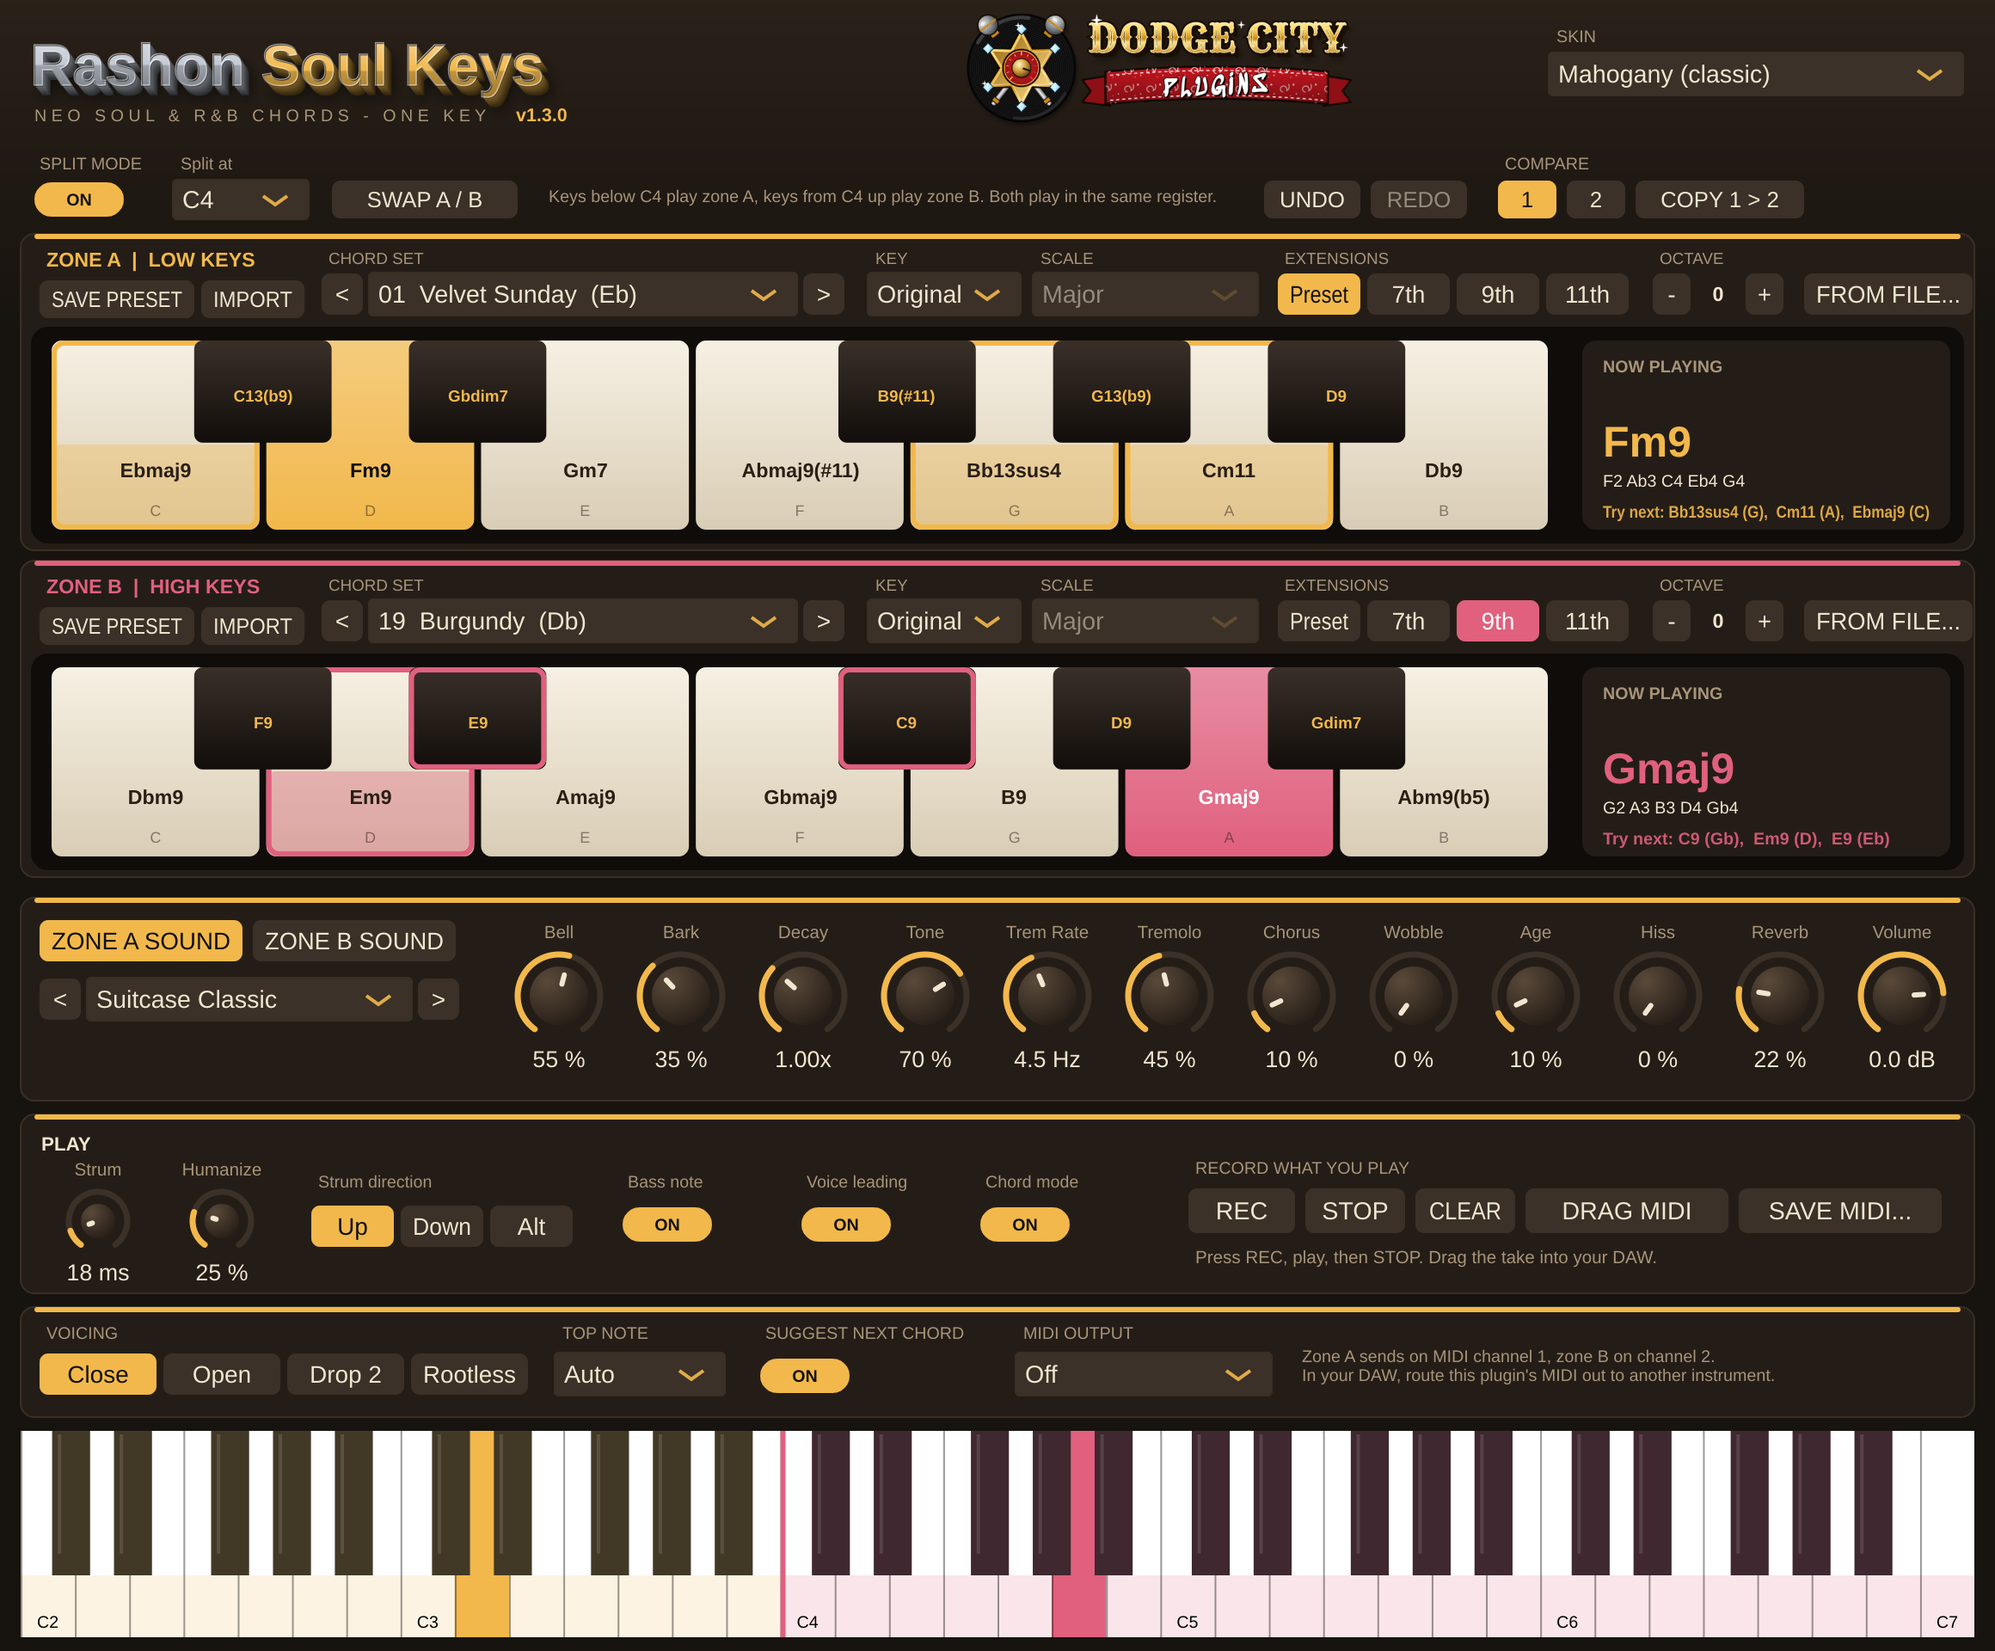
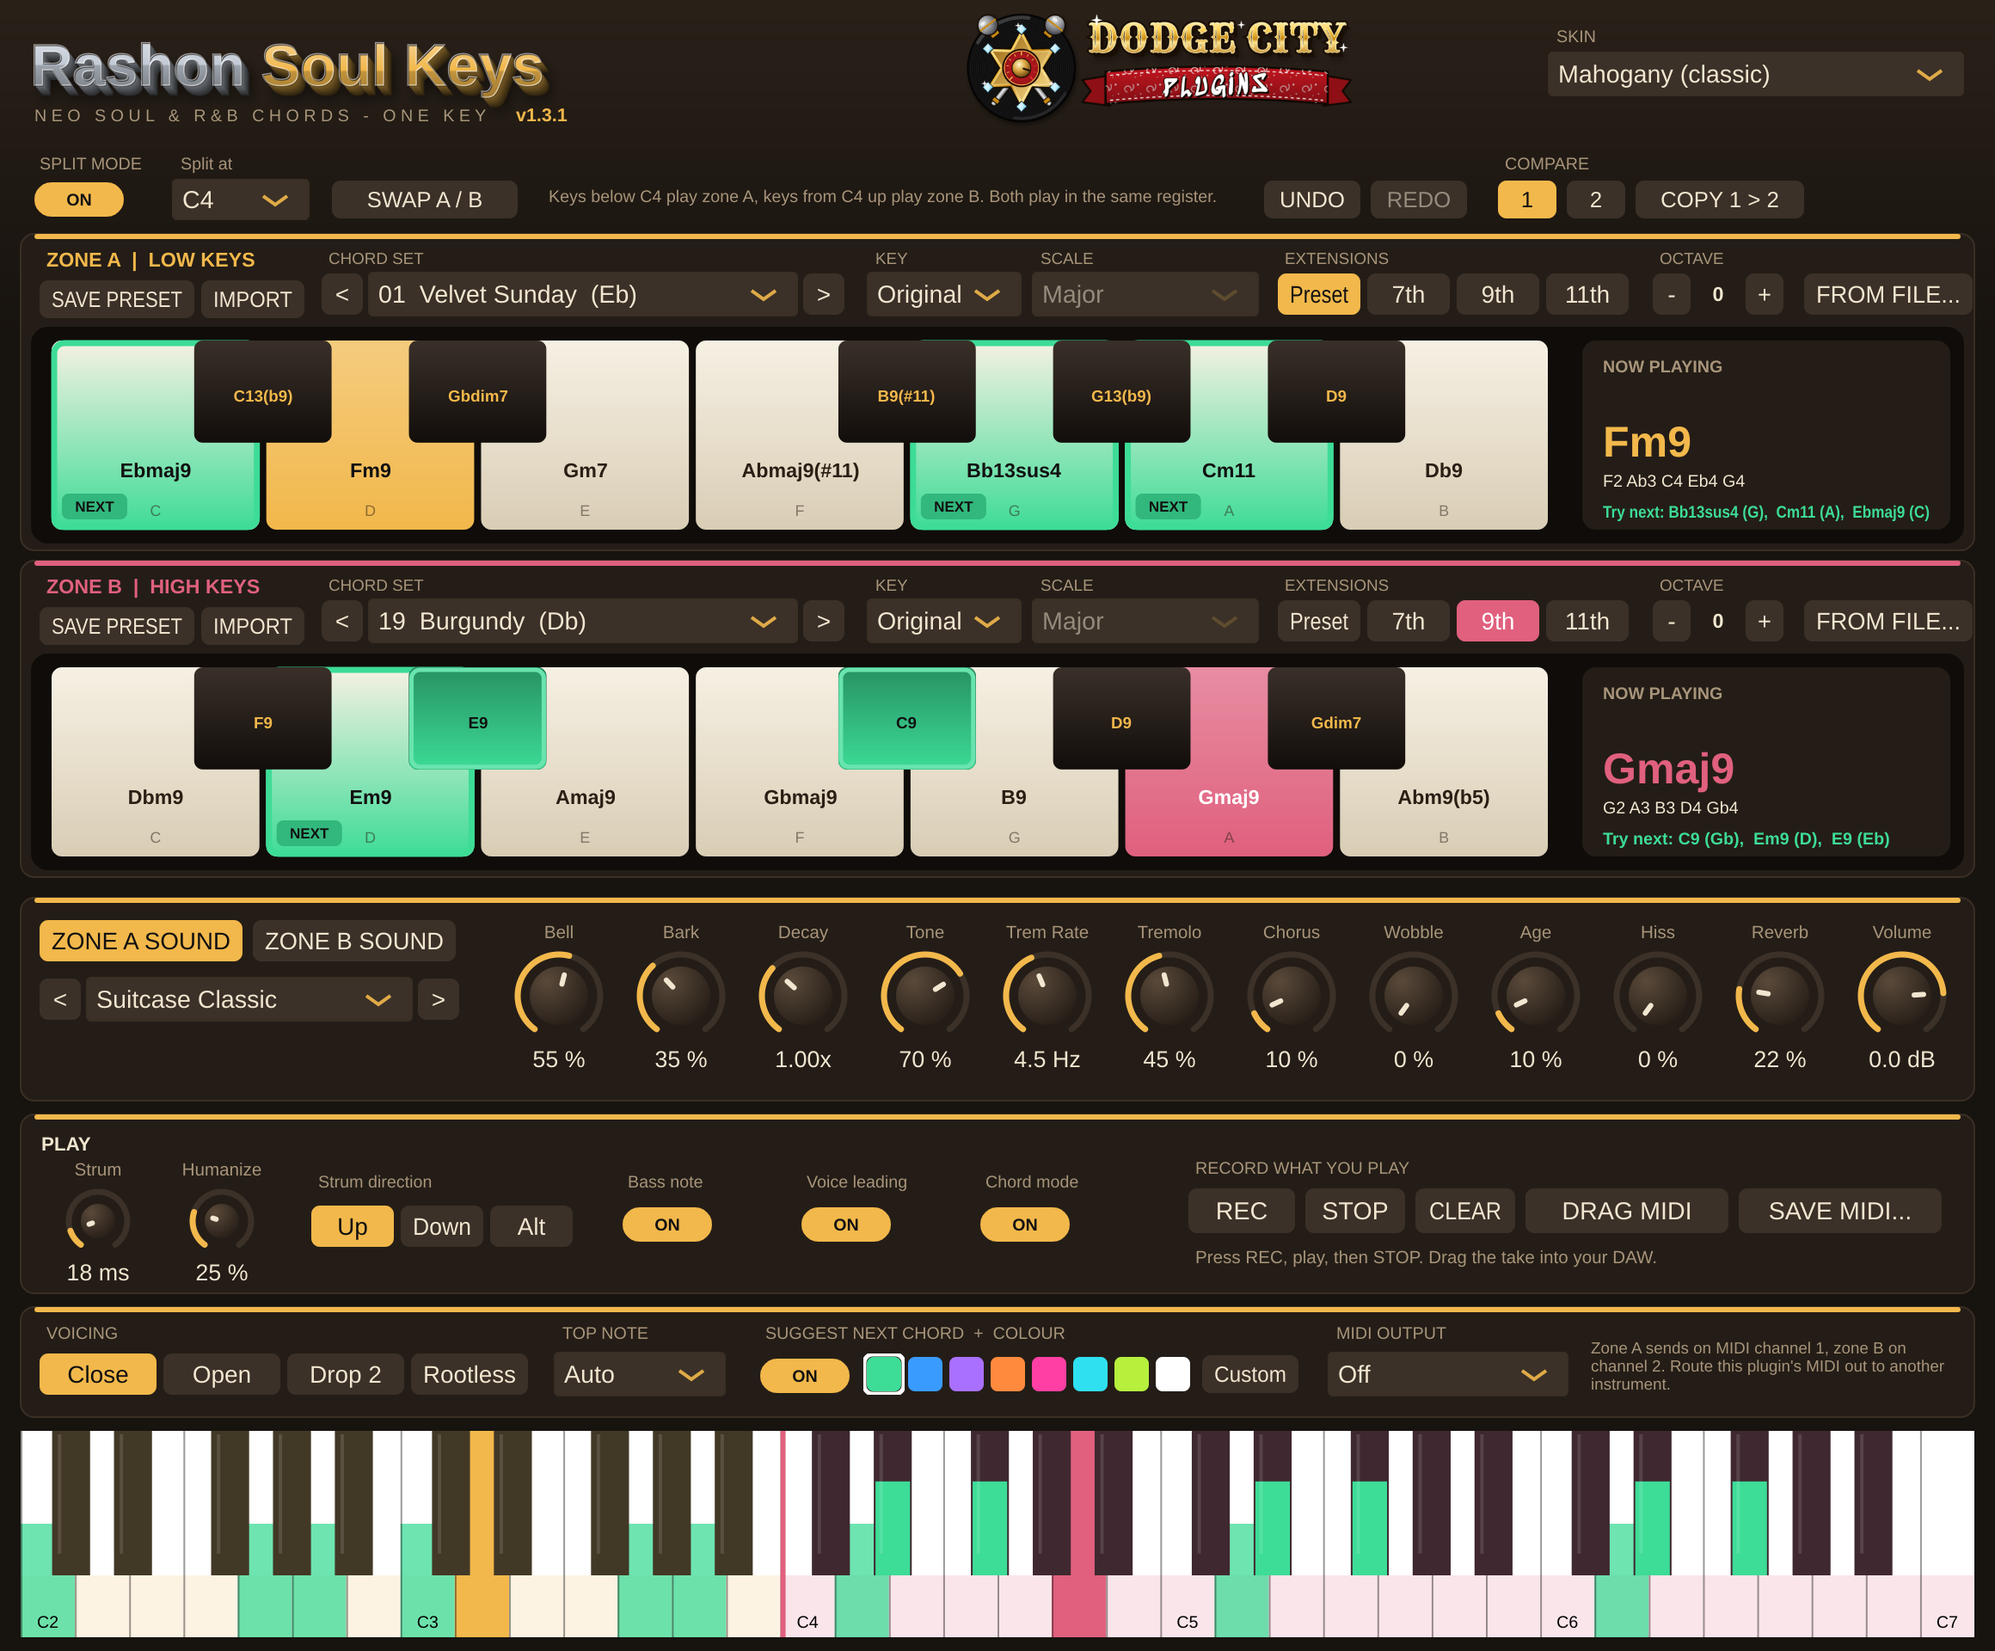
Soul Keys v1.3.1: suggestion colour, keyboard highlights, folder versioning
Suggested next chords light up in their own colour on the chord map and
the playable keyboard, with 8 swatches and a custom colour picker. The
version number now goes on the download folder instead of the plugin
file, which stopped DAWs loading it, and builds load-test with pluginval.

Claude-Session: https://claude.ai/code/session_011kPxtysHsQ9HbSUMELU1Sm

diff --git a/Source/PluginEditor.cpp b/Source/PluginEditor.cpp
@@ -151,7 +151,7 @@ void ChordMapView::paint (juce::Graphics& g)
         g.drawFittedText (noteText[(size_t) last], now.reduced (12.0f).withTrimmedTop (64.0f).withHeight (16.0f).toNearestInt(), juce::Justification::topLeft, 1);
         if (suggestionText.isNotEmpty())
         {
-            g.setColour (zoneColour.withAlpha (0.9f));
+            g.setColour (suggestColour);
             g.setFont (juce::FontOptions (11.0f, juce::Font::bold));
             g.drawFittedText (suggestionText, now.reduced (12.0f).withTrimmedTop (82.0f).toNearestInt(), juce::Justification::topLeft, 2);
         }
@@ -173,14 +173,22 @@ void ChordMapView::paint (juce::Graphics& g)
         const bool on = held[(size_t) pc];
         g.setGradientFill (juce::ColourGradient (on ? zoneColour.brighter (0.4f) : s.whiteTop, 0.0f, r.getY(), on ? zoneColour : s.whiteBottom, 0.0f, r.getBottom(), false));
         g.fillRoundedRectangle (r, 6.0f);
-        if (suggested[(size_t) pc] && ! on)
+        const bool suggestedKey = suggested[(size_t) pc] && ! on;
+        if (suggestedKey)
         {
-            g.setColour (zoneColour.withAlpha (0.35f));
-            g.fillRoundedRectangle (r.withTrimmedTop (r.getHeight() * 0.55f), 6.0f);
-            g.setColour (zoneColour);
-            g.drawRoundedRectangle (r.reduced (1.5f), 6.0f, 3.0f);
+            g.setGradientFill (juce::ColourGradient (s.whiteTop, 0.0f, r.getY(), suggestColour, 0.0f, r.getBottom(), false));
+            g.fillRoundedRectangle (r, 6.0f);
+            g.setColour (suggestColour);
+            g.drawRoundedRectangle (r.reduced (1.5f), 6.0f, 3.5f);
+            g.setFont (juce::FontOptions (9.5f, juce::Font::bold));
+            g.setColour (contrast (suggestColour));
+            auto tag = juce::Rectangle<float> (38.0f, 15.0f).withPosition (r.getX() + 6.0f, r.getBottom() - 21.0f);
+            g.setColour (suggestColour.darker (0.2f));
+            g.fillRoundedRectangle (tag, 4.0f);
+            g.setColour (contrast (suggestColour));
+            g.drawText ("NEXT", tag, juce::Justification::centred);
         }
-        g.setColour (on ? contrast (zoneColour) : s.whiteText);
+        g.setColour (on ? contrast (zoneColour) : suggestedKey ? contrast (suggestColour.interpolatedWith (s.whiteTop, 0.4f)) : s.whiteText);
         g.setFont (juce::FontOptions (13.0f, juce::Font::bold));
         g.drawFittedText (names[(size_t) pc], r.reduced (5.0f).withTrimmedTop (r.getHeight() * 0.58f).toNearestInt(), juce::Justification::centredTop, 2);
         g.setColour (s.whiteText.withAlpha (0.5f));
@@ -196,12 +204,15 @@ void ChordMapView::paint (juce::Graphics& g)
         const bool on = held[(size_t) pc];
         g.setGradientFill (juce::ColourGradient (on ? zoneColour.brighter (0.3f) : s.blackTop, 0.0f, r.getY(), on ? zoneColour : s.blackBottom, 0.0f, r.getBottom(), false));
         g.fillRoundedRectangle (r, 5.0f);
-        if (suggested[(size_t) pc] && ! on)
+        const bool suggestedKey = suggested[(size_t) pc] && ! on;
+        if (suggestedKey)
         {
-            g.setColour (zoneColour);
-            g.drawRoundedRectangle (r.reduced (1.5f), 5.0f, 3.0f);
+            g.setGradientFill (juce::ColourGradient (suggestColour.darker (0.5f), 0.0f, r.getY(), suggestColour, 0.0f, r.getBottom(), false));
+            g.fillRoundedRectangle (r, 5.0f);
+            g.setColour (suggestColour.brighter (0.3f));
+            g.drawRoundedRectangle (r.reduced (1.5f), 5.0f, 2.5f);
         }
-        g.setColour (on ? contrast (zoneColour) : s.blackText);
+        g.setColour (on ? contrast (zoneColour) : suggestedKey ? contrast (suggestColour) : s.blackText);
         g.setFont (juce::FontOptions (10.5f, juce::Font::bold));
         g.drawFittedText (names[(size_t) pc], r.reduced (3.0f).withTrimmedTop (r.getHeight() * 0.4f).toNearestInt(), juce::Justification::centredTop, 3);
     }
@@ -209,6 +220,12 @@ void ChordMapView::paint (juce::Graphics& g)
 
 //==============================================================================
 // Keyboard with zone colours
+
+bool ZoneKeyboard::isSuggested (int note) const
+{
+    const int zone = processor.zoneOf (note);
+    return suggested[(size_t) zone][(size_t) (note % 12)];
+}
 
 juce::Colour ZoneKeyboard::zoneColour (int note) const
 {
@@ -223,6 +240,11 @@ void ZoneKeyboard::drawWhiteNote (int note, juce::Graphics& g, juce::Rectangle<f
     g.fillRect (area);
     g.setColour (zc.withAlpha (processor.splitOn() ? 0.16f : 0.06f));
     g.fillRect (area.withTrimmedTop (area.getHeight() * 0.7f));
+    if (isSuggested (note) && ! isDown)
+    {
+        g.setColour (suggestColour.withAlpha (0.75f));
+        g.fillRect (area.withTrimmedTop (area.getHeight() * 0.45f));
+    }
     if (isDown || isOver)
     {
         g.setColour (isDown ? zc : zc.withAlpha (0.3f));
@@ -248,6 +270,11 @@ void ZoneKeyboard::drawBlackNote (int note, juce::Graphics& g, juce::Rectangle<f
     const auto zc = zoneColour (note);
     g.setColour (isDown ? zc : juce::Colour (0xff1c1c1e).interpolatedWith (zc, isOver ? 0.4f : (processor.splitOn() ? 0.18f : 0.06f)));
     g.fillRect (area);
+    if (isSuggested (note) && ! isDown)
+    {
+        g.setColour (suggestColour);
+        g.fillRect (area.withTrimmedTop (area.getHeight() * 0.35f).reduced (1.0f, 0.0f));
+    }
     g.setColour (juce::Colours::white.withAlpha (0.12f));
     g.fillRect (area.reduced (area.getWidth() * 0.15f, 0.0f).withHeight (area.getHeight() * 0.85f).withTrimmedTop (2.0f).withWidth (2.0f));
 }
@@ -390,16 +417,45 @@ SoulKeysEditor::SoulKeysEditor (SoulKeysProcessor& p)
     topNoteAtt = std::make_unique<CA> (processor.apvts, "topNote", topNoteBox);
     topNoteBox.setTooltip ("Which chord tone sits on top - use it to shape a melody across your chords");
     addAndMakeVisible (topNoteBox);
-    caption (suggestCaption, "SUGGEST NEXT CHORD");
+    caption (suggestCaption, "SUGGEST NEXT CHORD  +  COLOUR");
     suggestAtt = std::make_unique<BA> (processor.apvts, "suggest", suggestToggle);
     addAndMakeVisible (suggestToggle);
+    for (auto c : { 0xff3ddc97u, 0xff3a9bffu, 0xffa970ffu, 0xffff8a3du, 0xffff3fa4u, 0xff2fe0f0u, 0xffb6f03du, 0xffffffffu })
+    {
+        auto* sw = swatches.add (new SwatchButton (juce::Colour (c)));
+        sw->setTooltip ("Colour for suggested next chords");
+        sw->onClick = [this, sw] { setSuggestColour (sw->colour); };
+        addAndMakeVisible (sw);
+    }
+    customColour.setTooltip ("Pick any colour for suggested chords");
+    customColour.onClick = [this]
+    {
+        auto picker = std::make_unique<juce::ColourSelector> (juce::ColourSelector::showColourspace | juce::ColourSelector::showSliders);
+        picker->setCurrentColour (suggestColour, juce::dontSendNotification);
+        picker->setSize (300, 280);
+        struct Listener : juce::ChangeListener
+        {
+            SoulKeysEditor& editor;
+            explicit Listener (SoulKeysEditor& e) : editor (e) {}
+            void changeListenerCallback (juce::ChangeBroadcaster* b) override
+            {
+                if (auto* sel = dynamic_cast<juce::ColourSelector*> (b)) editor.setSuggestColour (sel->getCurrentColour().withAlpha (1.0f));
+            }
+        };
+        static std::unique_ptr<Listener> listener;
+        listener = std::make_unique<Listener> (*this);
+        picker->addChangeListener (listener.get());
+        juce::CallOutBox::launchAsynchronously (std::move (picker), customColour.getScreenBounds(), nullptr);
+    };
+    addAndMakeVisible (customColour);
+
     caption (midiOutCaption, "MIDI OUTPUT");
     midiOutBox.addItemList ({ "Off", "Sound + MIDI", "MIDI only" }, 1);
     midiOutAtt = std::make_unique<CA> (processor.apvts, "midiOut", midiOutBox);
     midiOutBox.setTooltip ("Send the chords out as MIDI to play your own instruments");
     addAndMakeVisible (midiOutBox);
     midiHint.setFont (juce::FontOptions (11.0f));
-    midiHint.setText ("Zone A sends on MIDI channel 1, zone B on channel 2.\nIn your DAW, route this plugin's MIDI out to another instrument.", juce::dontSendNotification);
+    midiHint.setText ("Zone A sends on MIDI channel 1, zone B on channel 2. Route this plugin's MIDI out to another instrument.", juce::dontSendNotification);
     addAndMakeVisible (midiHint);
 
     // Recorder
@@ -450,6 +506,8 @@ SoulKeysEditor::SoulKeysEditor (SoulKeysProcessor& p)
 
     const auto& state = processor.apvts.state;
     setSkin (state.hasProperty ("skin") ? (int) state.getProperty ("skin") : settings->getIntValue ("skin", 0));
+    setSuggestColour (juce::Colour::fromString (state.hasProperty ("suggestColour") ? state.getProperty ("suggestColour").toString()
+                                                                                     : settings->getValue ("suggestColour", "ff3ddc97")));
     setSize (W, H);
     timerCallback();
     startTimerHz (20);
@@ -696,6 +754,22 @@ void SoulKeysEditor::bindSoundKnobs()
     repaint();
 }
 
+void SoulKeysEditor::setSuggestColour (juce::Colour c)
+{
+    suggestColour = c;
+    processor.apvts.state.setProperty ("suggestColour", c.toString(), nullptr);
+    if (settings != nullptr)
+    {
+        settings->setValue ("suggestColour", c.toString());
+        settings->saveIfNeeded();
+    }
+    for (auto* sw : swatches)
+        sw->selected = sw->colour == c, sw->repaint();
+    for (auto& r : rows)
+        if (r.map) r.map->setSuggestColour (c);
+    repaint();
+}
+
 void SoulKeysEditor::setSkin (int index)
 {
     skinIndex = juce::jlimit (0, (int) KeysSkin::all().size() - 1, index);
@@ -857,6 +931,7 @@ void SoulKeysEditor::timerCallback()
     const int sound = juce::roundToInt (processor.apvts.getRawParameterValue (SoulKeysProcessor::pid (soundZone, "sound"))->load());
     if (soundBox.getSelectedItemIndex() != sound)
         soundBox.setSelectedItemIndex (sound, juce::dontSendNotification);
+    keyboard.setSuggestions (rows[0].map->getSuggested(), rows[1].map->getSuggested(), suggestColour);
     keyboard.repaint();
     repaint (rows[1].area);
 }
@@ -1022,11 +1097,15 @@ void SoulKeysEditor::resized()
         voicingButtons[i]->setBounds (22 + i * 72, vy + 26, 70, 26);
     topNoteCaption.setBounds (322, vy + 8, 100, 14);
     topNoteBox.setBounds (322, vy + 26, 100, 26);
-    suggestCaption.setBounds (440, vy + 8, 140, 14);
+    suggestCaption.setBounds (440, vy + 8, 220, 14);
     suggestToggle.setBounds (440, vy + 28, 56, 24);
-    midiOutCaption.setBounds (590, vy + 8, 120, 14);
-    midiOutBox.setBounds (590, vy + 26, 150, 26);
-    midiHint.setBounds (752, vy + 14, W - 24 - 752, 40);
+    for (int i = 0; i < swatches.size(); ++i)
+        swatches[i]->setBounds (502 + i * 24, vy + 27, 24, 24);
+    customColour.setBounds (698, vy + 27, 58, 24);
+    midiOutCaption.setBounds (772, vy + 8, 120, 14);
+    midiOutBox.setBounds (772, vy + 26, 140, 26);
+    midiHint.setBounds (920, vy + 8, W - 24 - 920, 52);
+    midiHint.setFont (juce::FontOptions (10.5f));
 
     keyboard.setBounds (12, vy + vh + 8, W - 24, H - (vy + vh + 8) - 8);
     keyboard.setKeyWidth ((float) (W - 24) / 36.0f);

diff --git a/Source/PluginEditor.h b/Source/PluginEditor.h
@@ -23,12 +23,15 @@ class ChordMapView : public juce::Component
 public:
     ChordMapView (SoulKeysProcessor& p, int zoneIndex) : processor (p), zone (zoneIndex) {}
     void setSkin (const KeysSkin& s) { skin = &s; repaint(); }
+    void setSuggestColour (juce::Colour c) { suggestColour = c; repaint(); }
+    const std::array<bool, 12>& getSuggested() const { return suggested; }
     void refresh();
     void paint (juce::Graphics&) override;
 
 private:
     SoulKeysProcessor& processor;
     const int zone;
+    juce::Colour suggestColour { 0xff3ddc97 };
     const KeysSkin* skin = &KeysSkin::all().front();
     std::array<juce::String, 12> names, noteText;
     std::array<bool, 12> held {}, suggested {};
@@ -42,6 +45,12 @@ class ZoneKeyboard : public juce::MidiKeyboardComponent
 public:
     ZoneKeyboard (juce::MidiKeyboardState& s, SoulKeysProcessor& p) : MidiKeyboardComponent (s, horizontalKeyboard), processor (p) {}
     void setSkin (const KeysSkin& s) { skin = &s; repaint(); }
+    void setSuggestions (const std::array<bool, 12>& zoneA, const std::array<bool, 12>& zoneB, juce::Colour colour)
+    {
+        if (suggested[0] == zoneA && suggested[1] == zoneB && colour == suggestColour) return;
+        suggested[0] = zoneA; suggested[1] = zoneB; suggestColour = colour;
+        repaint();
+    }
 
 protected:
     void drawWhiteNote (int note, juce::Graphics&, juce::Rectangle<float> area, bool isDown, bool isOver, juce::Colour lineColour, juce::Colour textColour) override;
@@ -49,8 +58,31 @@ protected:
 
 private:
     juce::Colour zoneColour (int note) const;
+    bool isSuggested (int note) const;
     SoulKeysProcessor& processor;
     const KeysSkin* skin = &KeysSkin::all().front();
+    std::array<std::array<bool, 12>, 2> suggested {};
+    juce::Colour suggestColour { 0xff3ddc97 };
+};
+
+// A small colour square you can click
+class SwatchButton : public juce::Button
+{
+public:
+    explicit SwatchButton (juce::Colour c) : juce::Button ({}), colour (c) {}
+    juce::Colour colour;
+    bool selected = false;
+    void paintButton (juce::Graphics& g, bool over, bool) override
+    {
+        auto r = getLocalBounds().toFloat().reduced (2.0f);
+        g.setColour (colour);
+        g.fillRoundedRectangle (r, 4.0f);
+        if (selected || over)
+        {
+            g.setColour (selected ? juce::Colours::white : juce::Colours::white.withAlpha (0.5f));
+            g.drawRoundedRectangle (r.expanded (1.5f), 5.0f, selected ? 2.5f : 1.5f);
+        }
+    }
 };
 
 // A button you can drag out of the plugin: drops the recorded take as a MIDI file into the DAW.
@@ -166,6 +198,10 @@ private:
     juce::OwnedArray<juce::TextButton> voicingButtons;
     juce::ComboBox topNoteBox, midiOutBox;
     juce::ToggleButton suggestToggle;
+    juce::OwnedArray<SwatchButton> swatches;
+    juce::TextButton customColour { "Custom" };
+    juce::Colour suggestColour { 0xff3ddc97 };
+    void setSuggestColour (juce::Colour c);
     juce::Label voicingCaption, topNoteCaption, suggestCaption, midiOutCaption, midiHint;
     std::unique_ptr<CA> topNoteAtt, midiOutAtt;
     std::unique_ptr<BA> suggestAtt;
